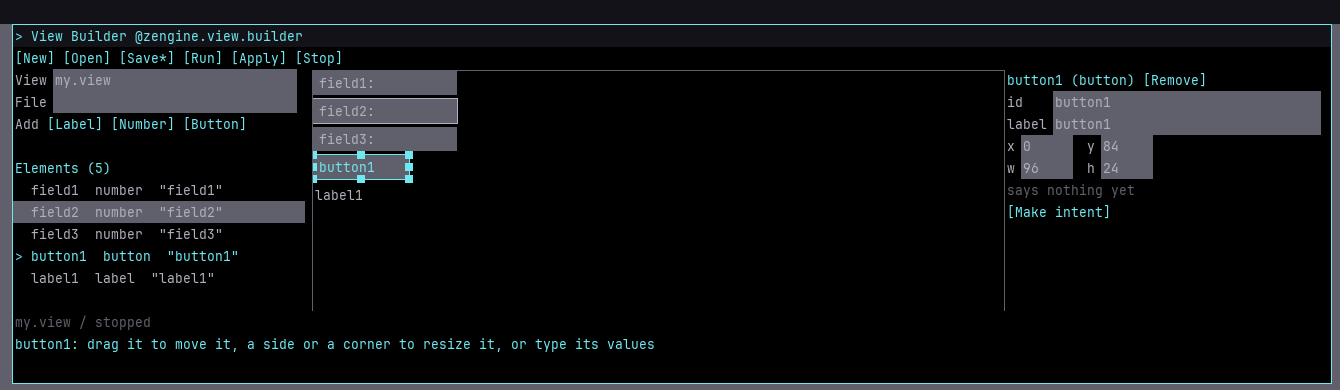
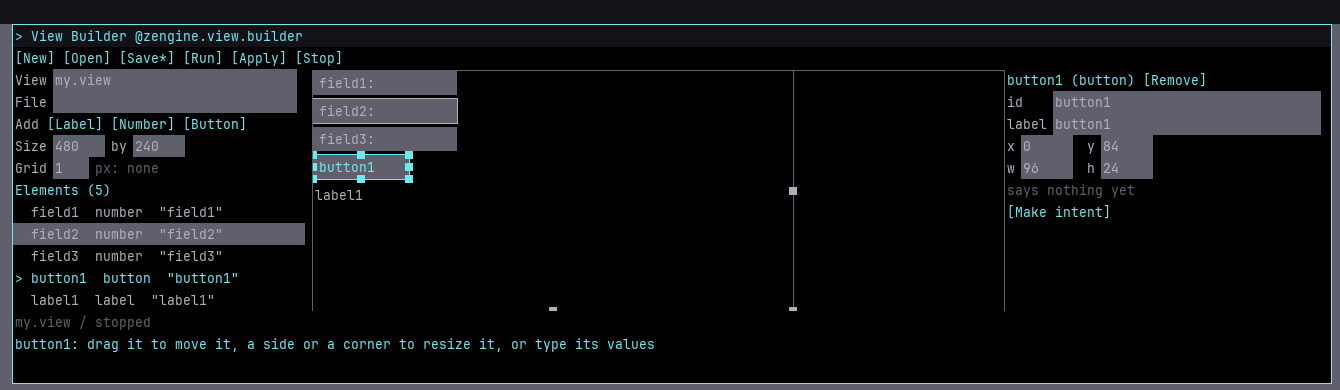
View Builder guide: the view's size, pictured
The guide's three pictures are taken again from a running Workshop with
the size and the grid: a new view ruled with its size handles and the
Size and Grid boxes; a view 1500 by 900 panned to its far corner, an
element snapping to a button made there; one side dragged alone. A fourth
shows an element dragged far right stopping at the view's edge.

Changed region(s): [[0.0, 0.3385, 0.2448, 0.8]]

diff --git a/docs/workshop/view-builder.md b/docs/workshop/view-builder.md
@@ -53,11 +53,13 @@ pane the selected element's values sit in boxes on the right; in a narrow one, b
 - `Delete` or **Remove** removes the selected element. **New** or **Open** over an unsaved view
   asks for a second press before it discards it.
 
-![button1 selected, with a handle on each side and at each corner, while the pointer resting on field2 marks it and its row](images/view-builder-hand.png)
+![A new view, 480 by 240, its right and bottom edges ruled with their handles; button1 selected, with a handle on each side and at each corner, while the pointer resting on field2 marks it and its row](images/view-builder-hand.png)
 
-![Panned by the middle button to label1 at 1100,700, past the canvas's edges; dragged onto button2, made there while panned, it snaps to button2's left edge and top, both lines marked while the button is held](images/view-builder-pan-snap.png)
+![A view 1500 by 900, panned by the middle button to its far corner; label1, placed at 1100,700 and dragged onto button2, made there while panned, snaps to button2's left edge and top, both lines marked while the button is held](images/view-builder-pan-snap.png)
 
 ![label1's right side dragged alone to button2's right edge: its width 96, its left side and its row where they were](images/view-builder-side.png)
+
+![label1 dragged far right stops at the view's right edge, at 1404 in a view 1500 wide, the edge it met marked](images/view-builder-size.png)
 
 ## Make the tally panel
 
